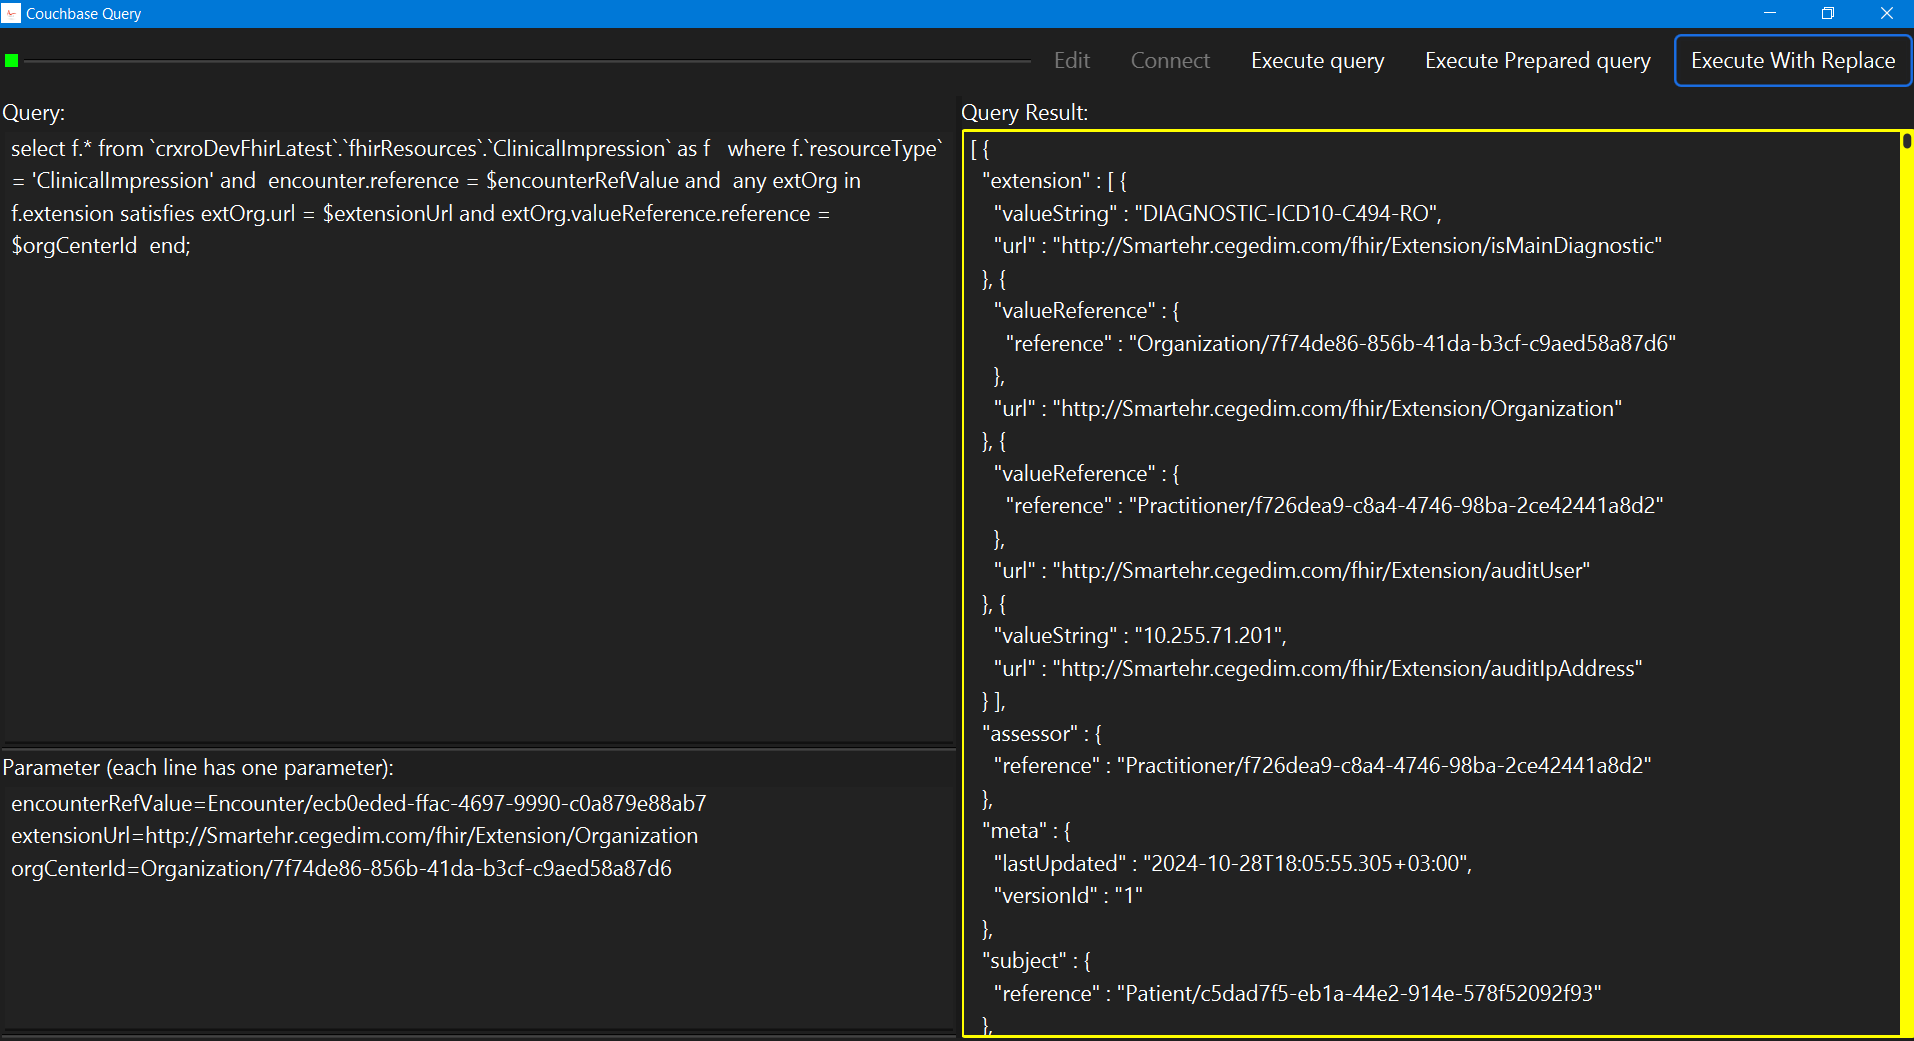
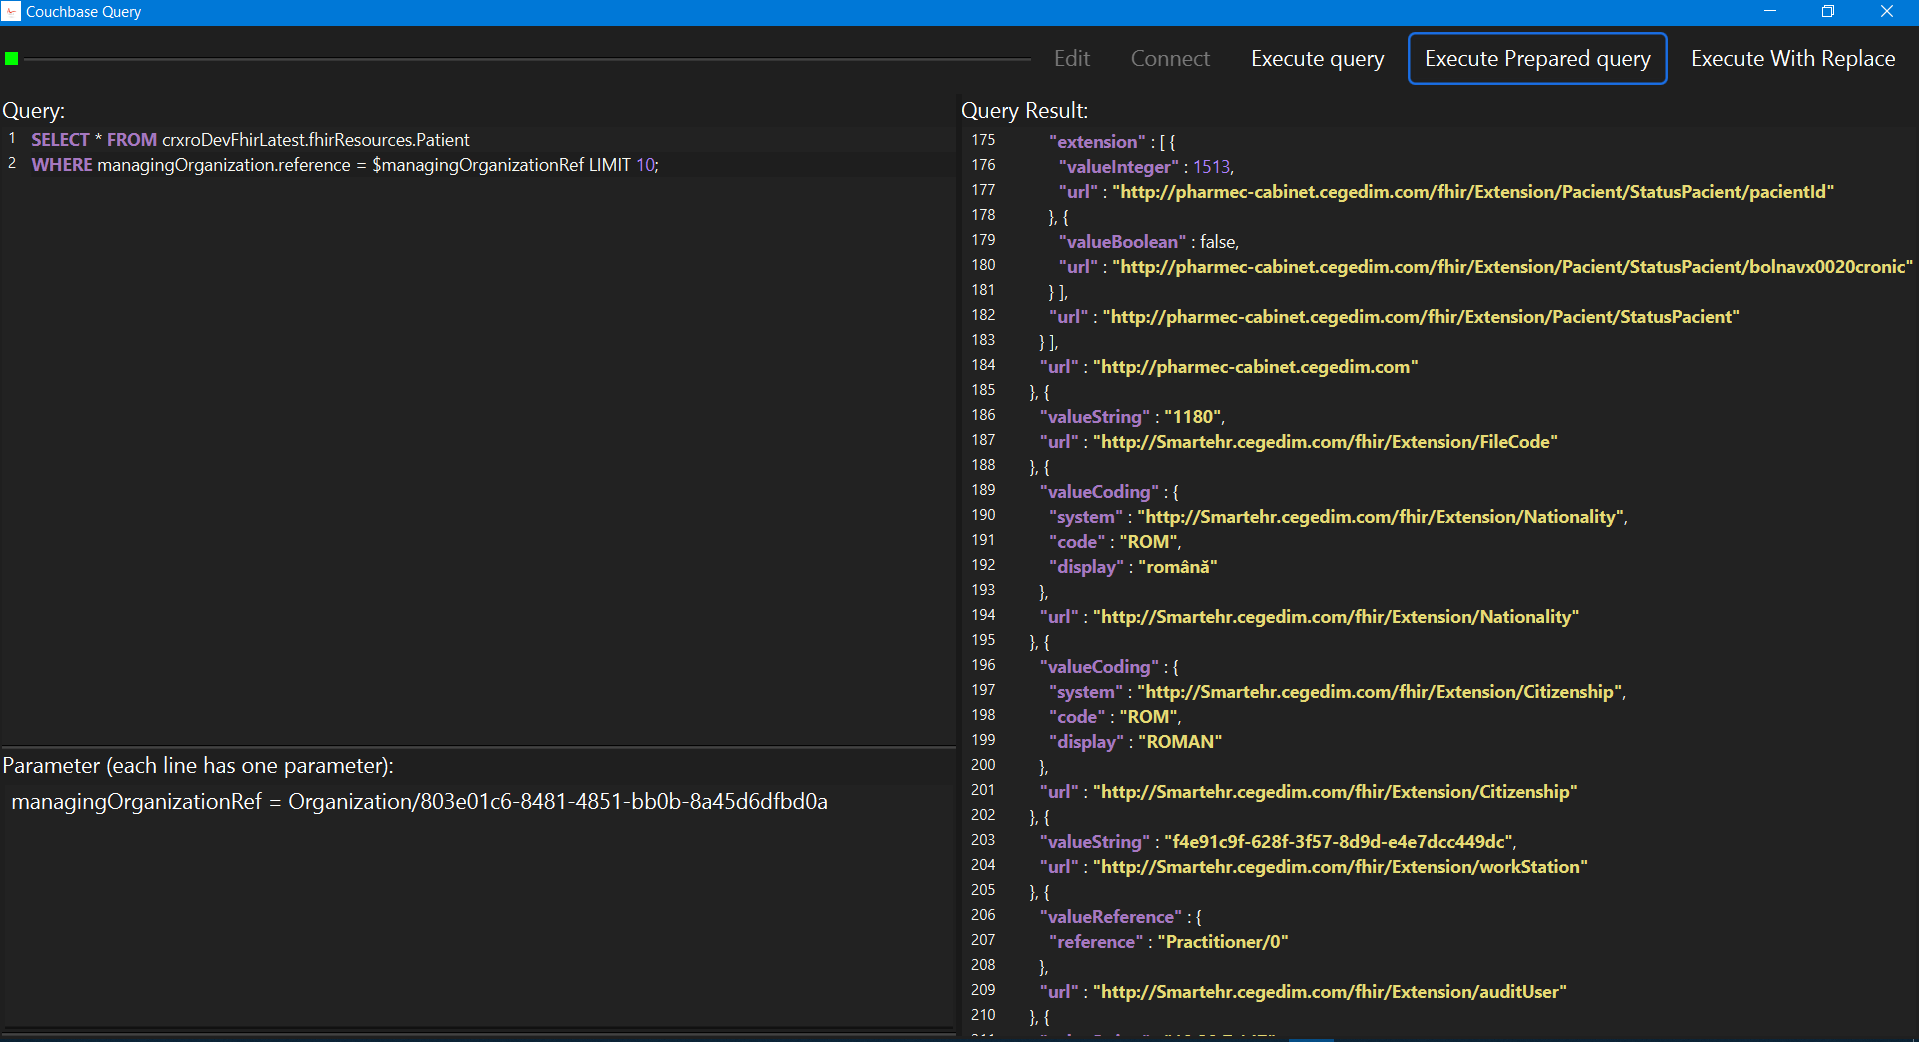
basic syntax highlight for JSON

diff --git a/cb-query/src/main/java/net/talaatharb/query/ui/controllers/CBQueryUiController.java b/cb-query/src/main/java/net/talaatharb/query/ui/controllers/CBQueryUiController.java
@@ -30,6 +30,7 @@ import lombok.Setter;
 import lombok.extern.slf4j.Slf4j;
 import net.talaatharb.query.config.HelperBeans;
 import net.talaatharb.query.facade.CBQueryFacade;
+import net.talaatharb.query.service.JSONSyntaxHighliter;
 import net.talaatharb.query.service.SQLSyntaxHighliter;
 
 @Slf4j
@@ -46,7 +47,6 @@ public class CBQueryUiController implements Initializable {
 	@Setter(value = AccessLevel.PACKAGE)
 	private Label connectionStatus;
 
-
 	private final CBQueryFacade queryFacade;
 
 	@FXML
@@ -56,11 +56,11 @@ public class CBQueryUiController implements Initializable {
 	@FXML
 	@Setter(value = AccessLevel.PACKAGE)
 	private Button fetchButton;
-	
+
 	@FXML
 	@Setter(value = AccessLevel.PACKAGE)
 	private Button fetchPreparedButton;
-	
+
 	@FXML
 	@Setter(value = AccessLevel.PACKAGE)
 	private Button fetchWithParametersButton;
@@ -70,14 +70,14 @@ public class CBQueryUiController implements Initializable {
 	@FXML
 	@Setter(value = AccessLevel.PACKAGE)
 	private CodeArea queryTextArea;
-	
+
 	@FXML
 	@Setter(value = AccessLevel.PACKAGE)
 	private TextArea parametersTextArea;
 
 	@FXML
 	@Setter(value = AccessLevel.PACKAGE)
-	private TextArea resultTextArea;
+	private CodeArea resultTextArea;
 
 	private JsonNode result;
 
@@ -133,59 +133,61 @@ public class CBQueryUiController implements Initializable {
 	void fetchUsingQuery() throws IOException {
 		log.info("Fetch data using the query");
 		final String resultString = queryFacade.fetchUsingQuery(queryTextArea.getText());
-		result = objectMapper
-				.readTree(new ByteArrayInputStream(resultString.getBytes(StandardCharsets.UTF_8)));
-		resultTextArea.setText(objectMapper.writeValueAsString(result));
+		result = objectMapper.readTree(new ByteArrayInputStream(resultString.getBytes(StandardCharsets.UTF_8)));
+		resultTextArea.replaceText(objectMapper.writeValueAsString(result));
 	}
-	
+
 	@FXML
 	void fetchUsingQueryAndParameters() throws IOException {
 		log.info("Fetch data using the prepared query and parameters");
-		
+
 		final var parameters = getQueryParametersAsMap();
-		
+
 		final String resultString = queryFacade.fetchUsingQuery(queryTextArea.getText(), parameters);
-		result = objectMapper
-				.readTree(new ByteArrayInputStream(resultString.getBytes(StandardCharsets.UTF_8)));
-		resultTextArea.setText(objectMapper.writeValueAsString(result));
+		result = objectMapper.readTree(new ByteArrayInputStream(resultString.getBytes(StandardCharsets.UTF_8)));
+		resultTextArea.replaceText(objectMapper.writeValueAsString(result));
 	}
 
 	private Map<String, String> getQueryParametersAsMap() {
 		return Arrays.stream(parametersTextArea.getText().split("\\n")).map(s -> {
 			String[] keyValue = s.split("=");
-			if(keyValue.length != 2) {
+			if (keyValue.length != 2) {
 				return null;
 			}
 			return keyValue;
 		}).filter(o -> o != null).collect(Collectors.toMap(kv -> kv[0].strip(), kv -> kv[1].stripLeading()));
 	}
-	
+
 	@FXML
 	void fetchUsingQueryAndParametersReplaced() throws IOException {
 		log.info("Fetch data using the query with parameters replaced");
-		
+
 		var queryString = queryTextArea.getText();
 		final var parameters = getQueryParametersAsMap();
-		
-		for(var kv : parameters.entrySet()) {
+
+		for (var kv : parameters.entrySet()) {
 			queryString = queryString.replace('$' + kv.getKey(), "'" + kv.getValue() + "'");
 		}
-		
+
 		final String resultString = queryFacade.fetchUsingQuery(queryString);
-		result = objectMapper
-				.readTree(new ByteArrayInputStream(resultString.getBytes(StandardCharsets.UTF_8)));
-		resultTextArea.setText(objectMapper.writeValueAsString(result));
+		result = objectMapper.readTree(new ByteArrayInputStream(resultString.getBytes(StandardCharsets.UTF_8)));
+		resultTextArea.replaceText(objectMapper.writeValueAsString(result));
 	}
 
 	@Override
 	public void initialize(URL location, ResourceBundle resources) {
 		log.info("Initializing UI application Main window controller...");
-		
+
 		queryTextArea.setParagraphGraphicFactory(LineNumberFactory.get(queryTextArea)); // Adds line numbers
 		queryTextArea.setStyle("-fx-font-size: 14;"); // Set font size/style if needed
 
-		queryTextArea.textProperty().addListener((obs, oldText, newText) -> {
-			queryTextArea.setStyleSpans(0, SQLSyntaxHighliter.computeHighlighting(newText));
-        });
+		queryTextArea.textProperty().addListener((obs, oldText, newText) -> queryTextArea.setStyleSpans(0,
+				SQLSyntaxHighliter.computeHighlighting(newText)));
+
+		resultTextArea.setParagraphGraphicFactory(LineNumberFactory.get(resultTextArea)); // Adds line numbers
+		resultTextArea.setStyle("-fx-font-size: 14;"); // Set font size/style if needed
+
+		resultTextArea.textProperty().addListener((obs, oldText, newText) -> resultTextArea.setStyleSpans(0,
+				JSONSyntaxHighliter.computeHighlighting(newText)));
 	}
 }

diff --git a/cb-query/src/main/java/net/talaatharb/query/service/JSONSyntaxHighliter.java b/cb-query/src/main/java/net/talaatharb/query/service/JSONSyntaxHighliter.java
@@ -1,0 +1,74 @@
+package net.talaatharb.query.service;
+
+import java.io.IOException;
+import java.util.Collection;
+import java.util.Collections;
+
+import org.fxmisc.richtext.model.StyleSpans;
+import org.fxmisc.richtext.model.StyleSpansBuilder;
+
+import com.fasterxml.jackson.core.JsonFactory;
+import com.fasterxml.jackson.core.JsonParser;
+import com.fasterxml.jackson.core.JsonToken;
+
+import lombok.AccessLevel;
+import lombok.NoArgsConstructor;
+
+@NoArgsConstructor(access = AccessLevel.PRIVATE)
+public class JSONSyntaxHighliter {
+	
+	private static final JsonFactory JSON_FACTORY = new JsonFactory();
+
+	public static final StyleSpans<Collection<String>> computeHighlighting(String text){
+		StyleSpansBuilder<Collection<String>> spansBuilder = new StyleSpansBuilder<>();
+
+		  try {
+		    JsonParser parser = JSON_FACTORY.createParser(text);
+		    int lastPos = 0;
+		    while (!parser.isClosed()) {
+		      JsonToken jsonToken = parser.nextToken();
+		      
+		      int length = parser.getTextLength();
+		      // Because getTextLength() does contain the surrounding ""
+		      if(jsonToken == JsonToken.VALUE_STRING || jsonToken == JsonToken.FIELD_NAME) {
+		        length += 2;
+		      }
+
+		      String className = jsonTokenToClassName(jsonToken);
+		      if (!className.isEmpty()) {
+		    	    int start = (int) parser.currentTokenLocation().getCharOffset();
+		    	    // Fill the gaps, since Style Spans need to be contiguous.
+		    	    if(start > lastPos)
+		    	    {
+		    	        int noStyleLength = start - lastPos;
+		    	        spansBuilder.add(Collections.emptyList(), noStyleLength);
+		    	    }
+		    	    lastPos = start + length;
+
+		    	    spansBuilder.add(Collections.singleton(className), length);
+		    	}
+		    }
+		  } catch (IOException e) {
+		    // Ignoring JSON parsing exception in the context of
+		    // syntax highlighting
+		  }
+
+		  return spansBuilder.create();
+	}
+	
+	private static String jsonTokenToClassName(JsonToken jsonToken) {
+		  if (jsonToken == null) {
+		    return "";
+		  }
+		  switch (jsonToken) {
+		    case FIELD_NAME:
+		      return "keyword";
+		    case VALUE_STRING:
+		      return "string";
+		    case VALUE_NUMBER_FLOAT, VALUE_NUMBER_INT:
+		      return "number";
+		    default:
+		      return "";
+		  }
+		}
+}

diff --git a/cb-query/src/main/java/net/talaatharb/query/service/SQLSyntaxHighliter.java b/cb-query/src/main/java/net/talaatharb/query/service/SQLSyntaxHighliter.java
@@ -15,7 +15,7 @@ import lombok.NoArgsConstructor;
 public class SQLSyntaxHighliter {
 	
 	private static final String[] SQL_KEYWORDS = new String[] { "SELECT", "FROM", "WHERE", "INSERT", "UPDATE", "DELETE",
-			"CREATE", "DROP", "ALTER", "JOIN", "ON", "AS", "ANY", "BETWEEN", "CONSTRAINT", "INDEX", "DESC", "ASC", "EXISTS" };
+			"CREATE", "DROP", "ALTER", "JOIN", "ON", "AS", "ANY", "AND", "BETWEEN", "CONSTRAINT", "INDEX", "DESC", "ASC", "EXISTS" };
 
 	private static final String SQL_KEYWORD_PATTERN = "\\b(" + String.join("|", SQL_KEYWORDS) + ")\\b";
 	private static final String STRING_PATTERN = "\"([^\"\\\\]|\\\\.)*\"";
